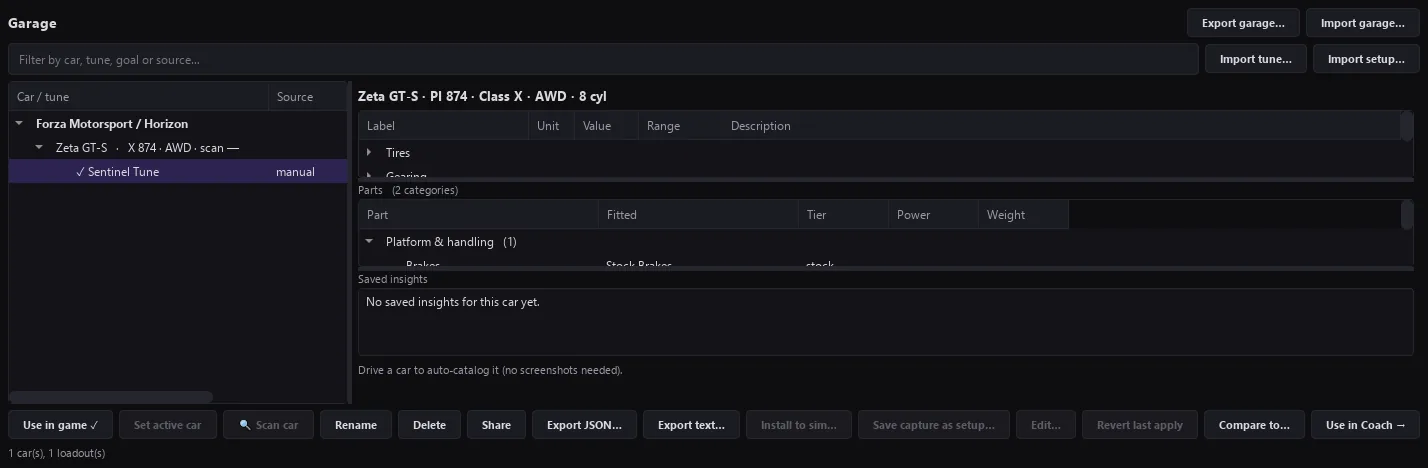
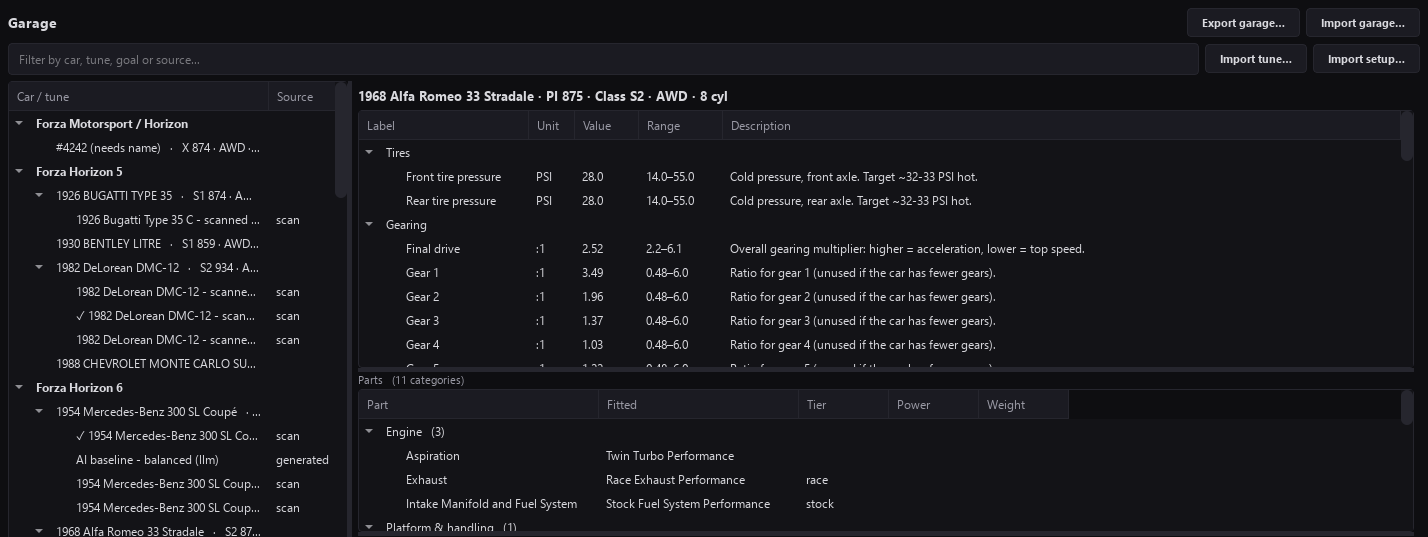
Real-data screenshots: sessions, corners, garage, coach chat
Replaces the seeded-world panel captures (dense UI shrunk into the media
column read as distorted) with real-session captures taken at ~2x display
width via floating docks, saved lossless: the sessions catalog, the Ferrari
488 GT3 Silverstone corner ranking, the FH6 Alfa Romeo 33 Stradale garage
(tune table + 11-category scanned parts), and an unscripted coach-chat
answer grounded in the session's corner log and tire temperatures.

diff --git a/docs/index.html b/docs/index.html
@@ -130,7 +130,8 @@
         <p>An optional LAN server turns a phone or tablet into a DDU, timing screen or pit wall, and feeds OBS overlays for streamers — off by default, token-protected when on.</p>
       </div>
       <div class="feature-media reveal">
-        <div class="frame"><div class="frame-bar"><i></i><i></i><i></i><span>Live gauges</span></div><img src="assets/shots/live_gauges.webp" alt="RideGuide live gauges panel: RPM strip, speed, gear, pedal bars, fuel, boost and suspension" width="876" height="305" loading="lazy"></div>
+        <div class="frame"><div class="frame-bar"><i></i><i></i><i></i><span>Sessions</span></div><img src="assets/shots/sessions.webp" alt="RideGuide sessions catalog: real recorded sessions grouped by game and car, with durations and frame counts" width="1178" height="758" loading="lazy"></div>
+        <p class="frame-cap">Real screenshots throughout — the developer's own sessions, captured from the live app.</p>
       </div>
     </div>
 
@@ -142,7 +143,7 @@
         <p>Math channels with a safe expression engine, per-lap statistical reports, and export to CSV, Parquet, MoTeC <em>.ld</em> and shareable lap files when you want to go deeper.</p>
       </div>
       <div class="feature-media reveal">
-        <div class="frame"><div class="frame-bar"><i></i><i></i><i></i><span>Corner analysis</span></div><img src="assets/shots/corners.webp" alt="RideGuide corner analysis panel ranking corners by time lost against a reference lap" width="864" height="412" loading="lazy"></div>
+        <div class="frame"><div class="frame-bar"><i></i><i></i><i></i><span>Corner analysis — Ferrari 488 GT3, Silverstone</span></div><img src="assets/shots/corners.webp" alt="RideGuide corner analysis ranking all 14 Silverstone corners by time lost, with minimum-speed and exit-speed deltas" width="1178" height="698" loading="lazy"></div>
       </div>
     </div>
 
@@ -154,7 +155,7 @@
         <p>Describe the symptom — <em>“understeer on corner exit”</em> — and the setup engineer proposes ranked changes grounded in your car's real slider ranges, then lets lap-attributed A/B validation prove whether the change was actually faster.</p>
       </div>
       <div class="feature-media reveal">
-        <div class="frame"><div class="frame-bar"><i></i><i></i><i></i><span>Garage</span></div><img src="assets/shots/garage.webp" alt="RideGuide garage panel with a captured tune and scanned parts catalog for a car" width="1428" height="468" loading="lazy"></div>
+        <div class="frame"><div class="frame-bar"><i></i><i></i><i></i><span>Garage — Alfa Romeo 33 Stradale</span></div><img src="assets/shots/garage.webp" alt="RideGuide garage with a scanned tune (tire pressures, gearing ratios with slider ranges) and an 11-category scanned parts catalog" width="1428" height="537" loading="lazy"></div>
       </div>
     </div>
 
@@ -166,7 +167,8 @@
         <p>RideGuide learns how you drive each car and carries that understanding into every conversation and debrief. Skill scoring across braking, cornering, throttle and consistency tracks your progress session after session.</p>
       </div>
       <div class="feature-media reveal">
-        <div class="frame"><div class="frame-bar"><i></i><i></i><i></i><span>AI coach chat</span></div><img src="assets/shots/coach_chat.webp" alt="RideGuide coach chat panel answering with live telemetry context" width="864" height="378" loading="lazy"></div>
+        <div class="frame"><div class="frame-bar"><i></i><i></i><i></i><span>AI coach chat</span></div><img src="assets/shots/coach_chat.webp" alt="RideGuide coach chat: a real answer diagnosing understeer from 49 logged corners and front-vs-rear tire temperatures, with honest caveats about an invalid lap" width="796" height="772" loading="lazy"></div>
+        <p class="frame-cap">An unscripted answer from a real stint — grounded in the session's corner log and tire temperatures, honest about what the data can't support.</p>
       </div>
     </div>
 
